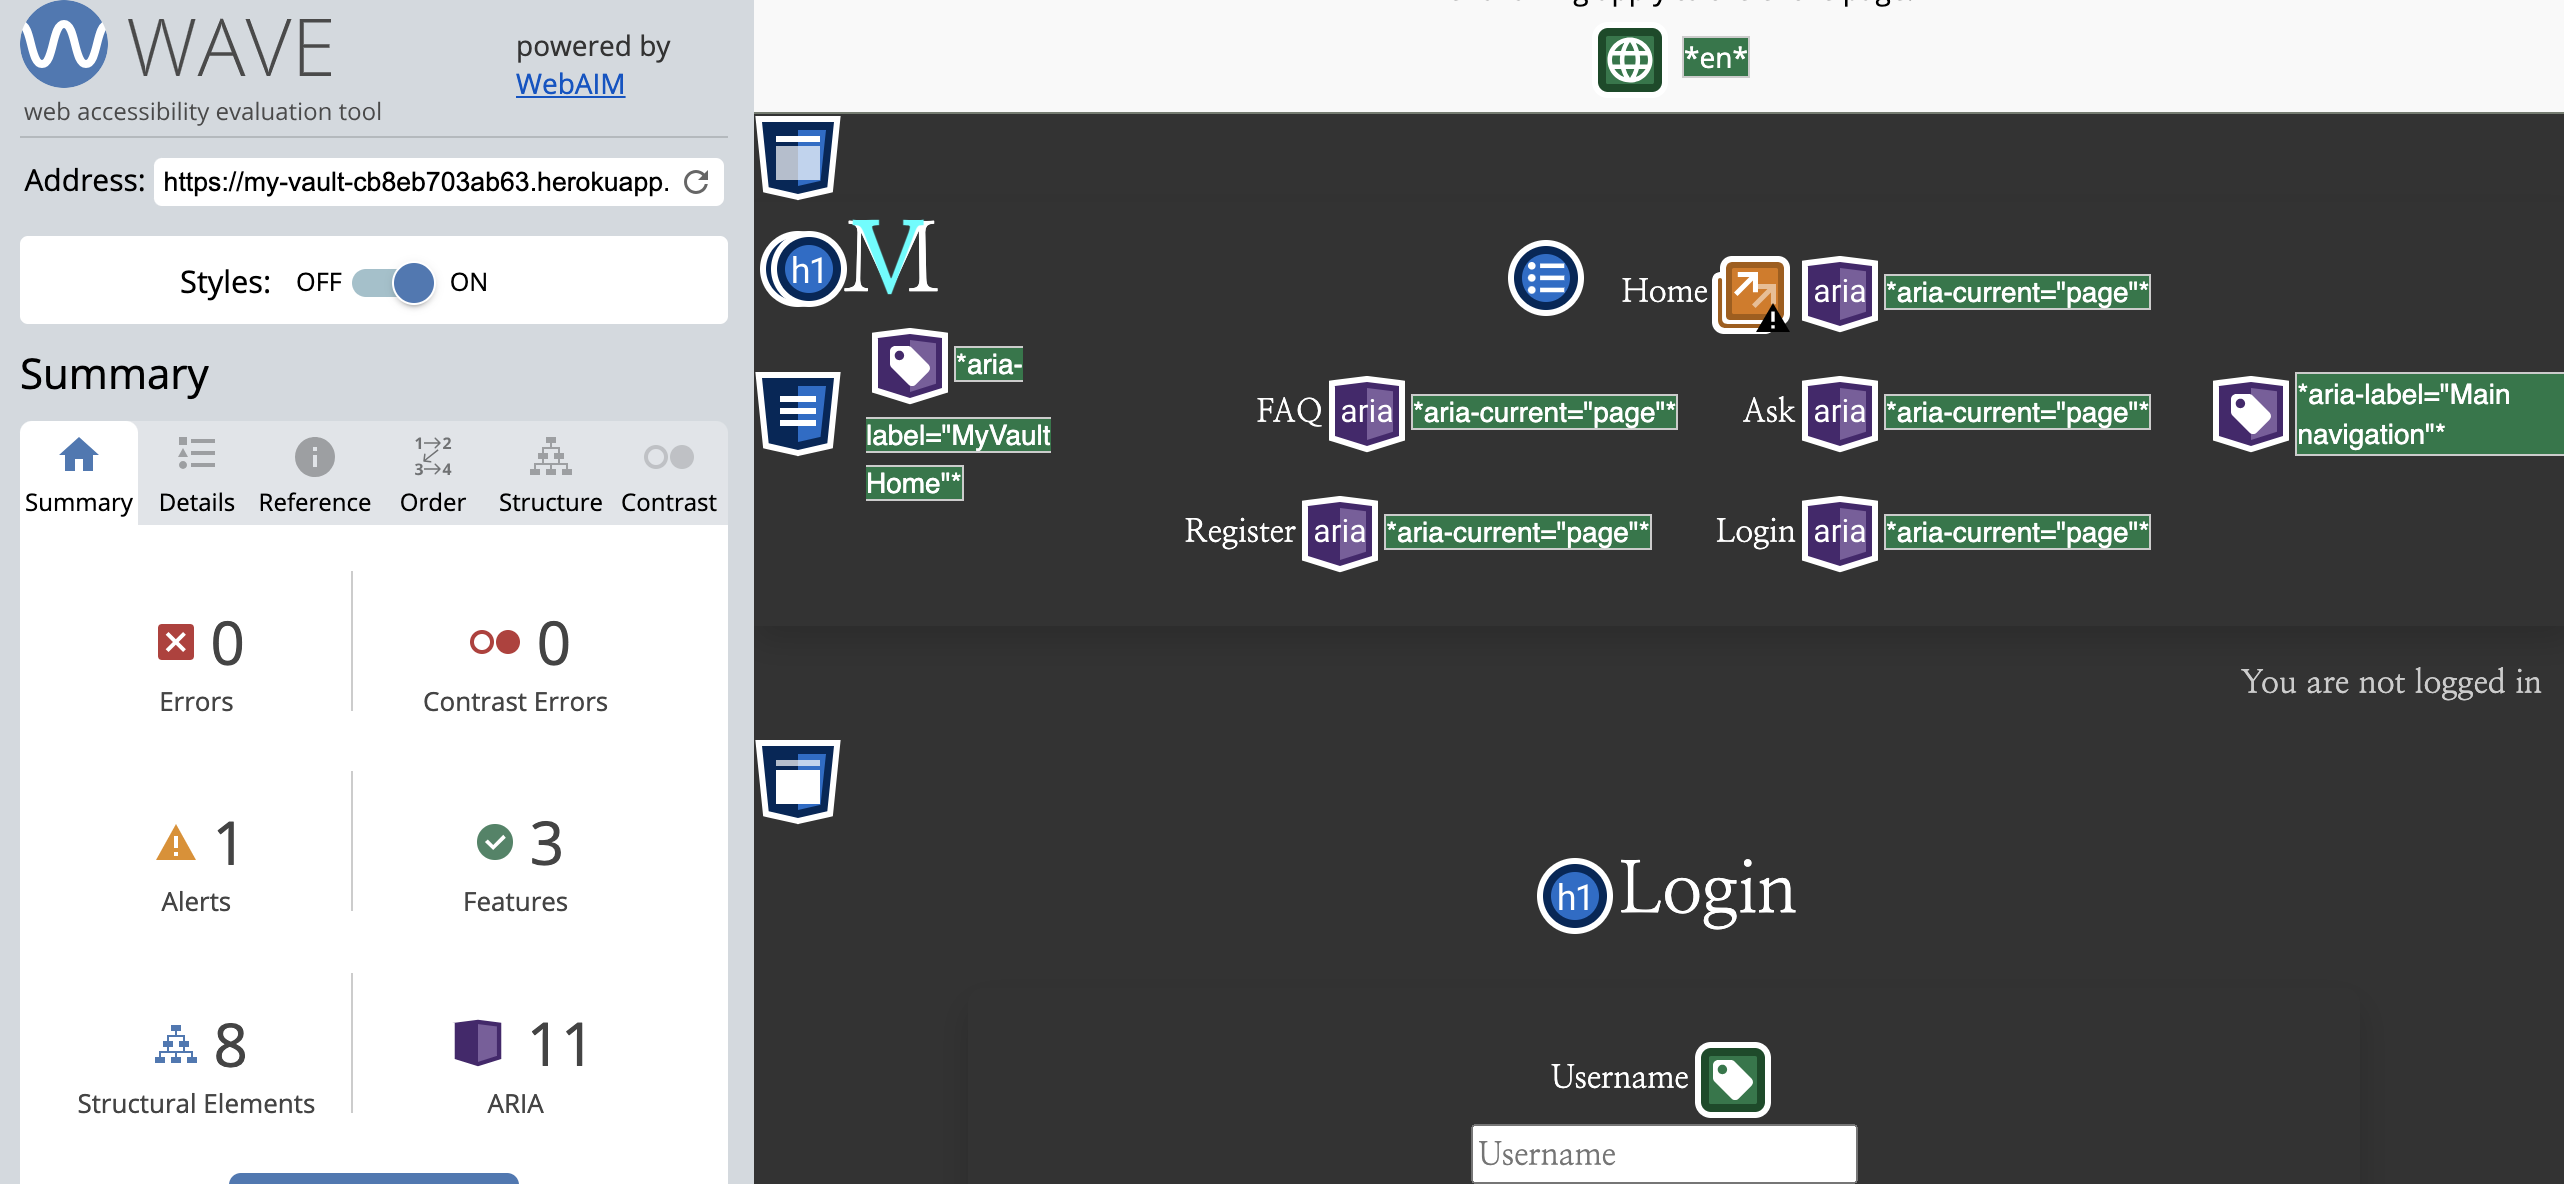
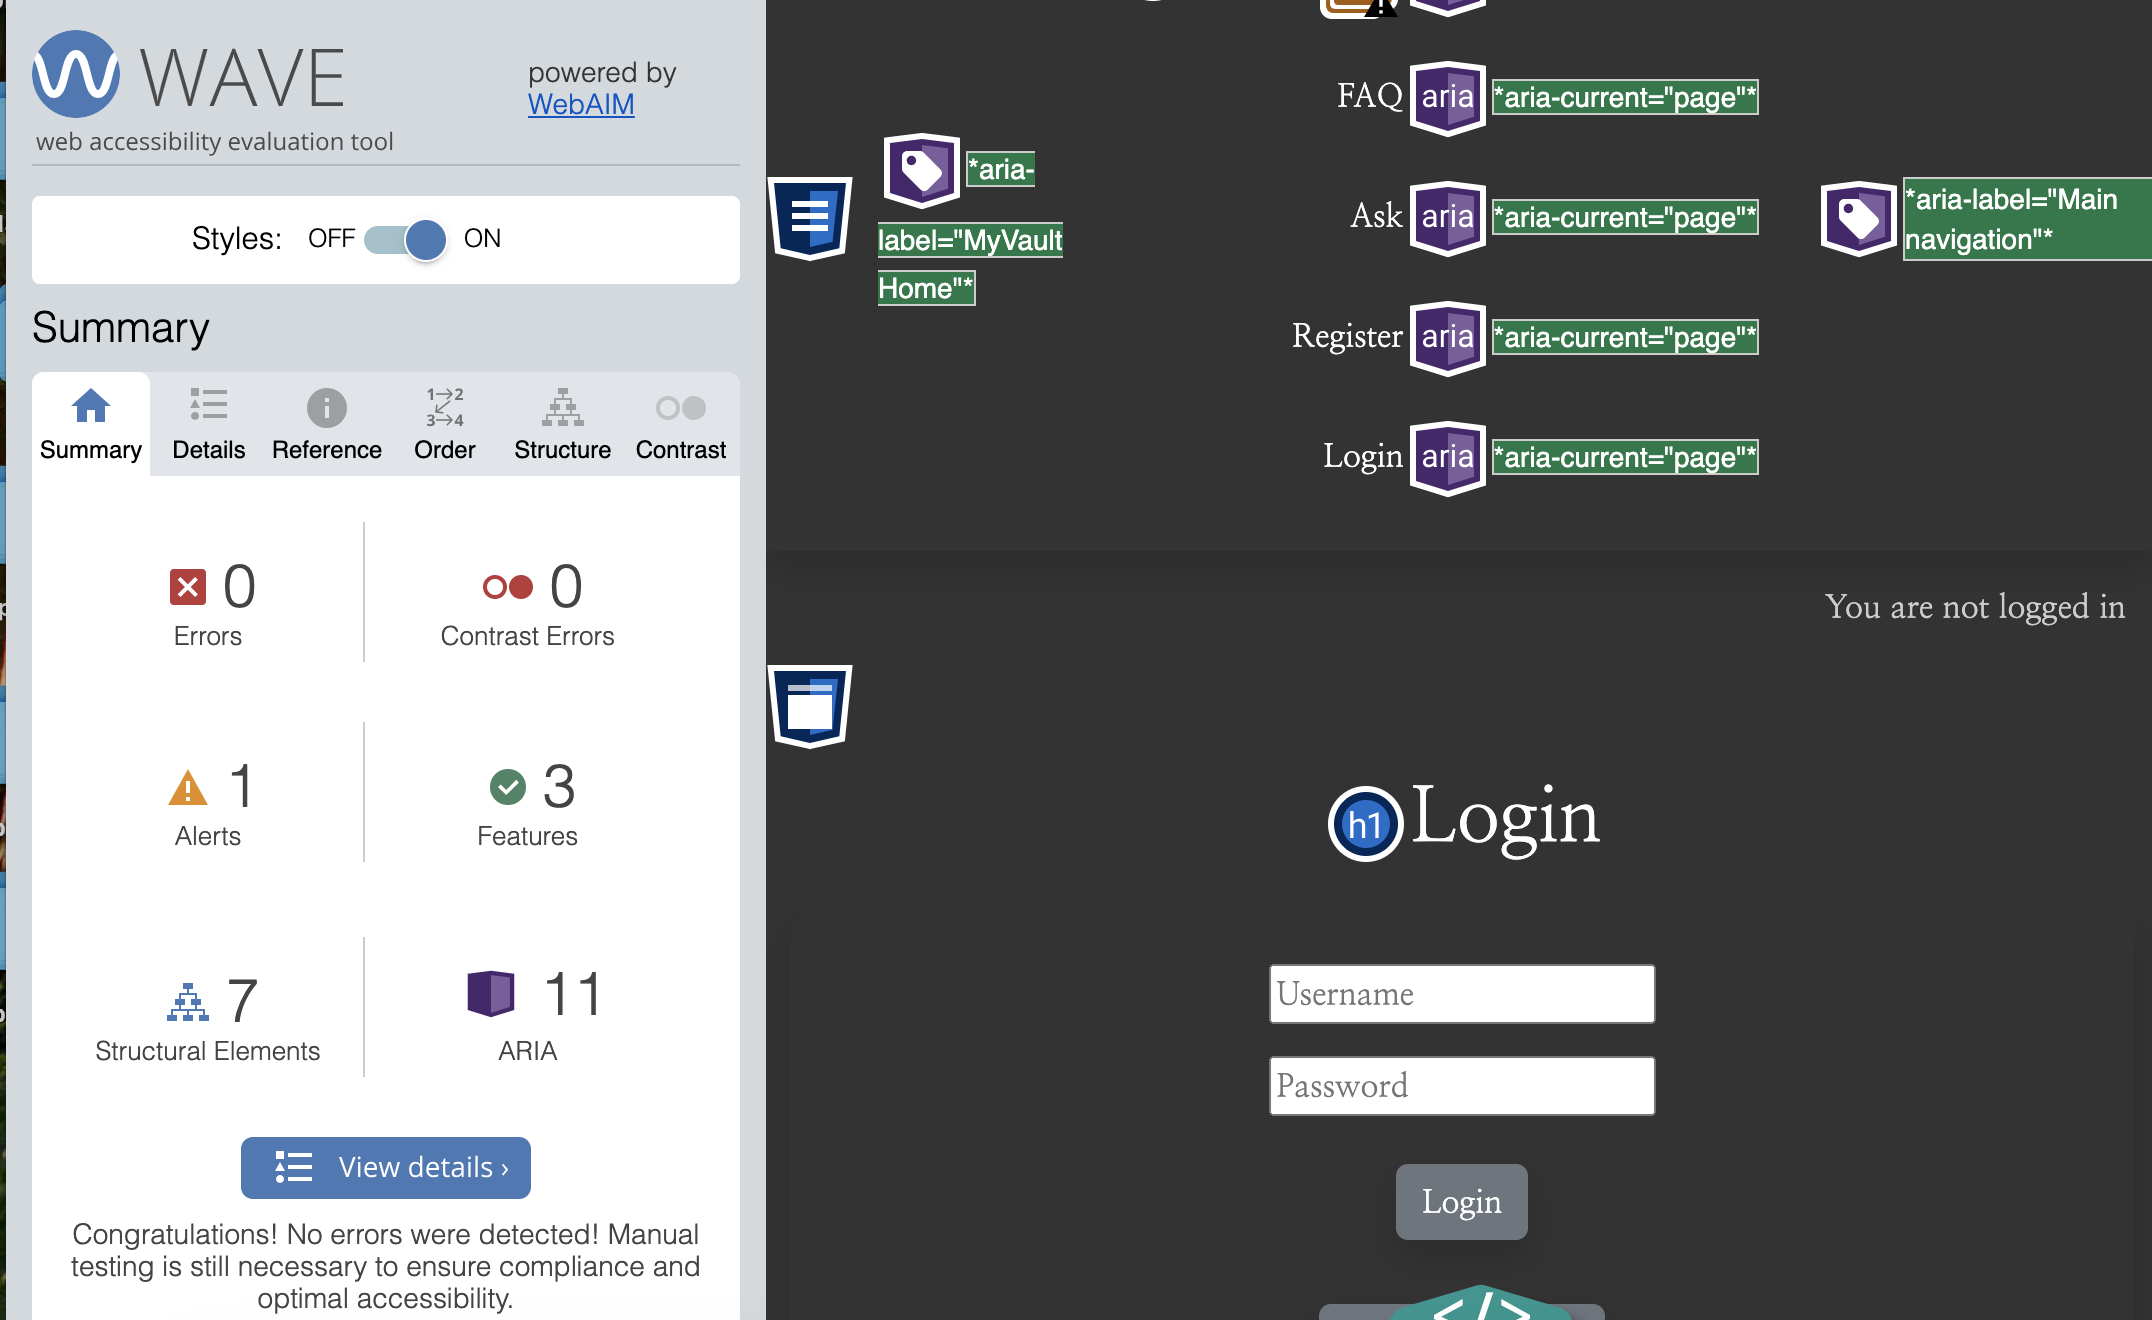
Add label to trans.html/fix aria lable in trans.hist.html

diff --git a/my_transactions/templates/transactions_history.html b/my_transactions/templates/transactions_history.html
@@ -10,7 +10,7 @@
           Filter
         </button>
         <!-- Modal for filter -->
-        <div class="modal fade" id="filterModal" tabindex="-1" aria-labelledby="FilterModalLabel" aria-hidden="true">
+        <div class="modal fade" id="filterModal" tabindex="-1" aria-labelledby="filterModalLabel" aria-hidden="true">
           <div class="modal-dialog">
             <div class="modal-content">
               <div class="modal-header">
@@ -79,12 +79,11 @@
             </div>
           </div>
           <!-- Modal for transacion details -->
-          <div class="modal fade" id="modal-{{ forloop.counter }}" tabindex="-1" aria-labelledby="exampleModalLabel"
-            aria-hidden="true">
+          <div class="modal fade" id="modal-{{ forloop.counter }}" tabindex="-1" aria-labelledby="modalLabel-{{ forloop.counter }}" aria-hidden="true">
             <div class="modal-dialog">
               <div class="modal-content">
                 <div class="modal-header">
-                  <h1 class="modal-title fs-5" id="exampleModalLabel">Transaction Details</h1>
+                  <h1 class="modal-title fs-5" id="modalLabel-{{ forloop.counter }}">Transaction Details</h1>
                   <button type="button" class="btn-close" data-bs-dismiss="modal" aria-label="Close"></button>
                 </div>
                 {% if transaction.type == 'Sent' or transaction.type == 'Received' %}

diff --git a/my_transactions/templates/transactions.html b/my_transactions/templates/transactions.html
@@ -39,6 +39,7 @@
                 <p>{{error}}</p>
                 {% endif %}
                 <div class="col-auto">
+                  <label for="amount" class="visually-hidden">Amount</label>
                   <input type="number" name="amount" id="amount" class="user-container rounded-3 shadow"
                     placeholder="Amount in USD" required min=1>
                 </div>
@@ -48,6 +49,7 @@
                   class="btn btn-secondary button shadow mt-3 mb-3">Top
                   Up</a>
                 <br>
+                <label for="top-up-amount" class="visually-hidden">Top Up</label>
                 <input type="number" id="top-up-amount" min="1" placeholder="Amount in USD" required
                   class="user-container rounded-3 shadow">
               </div>
